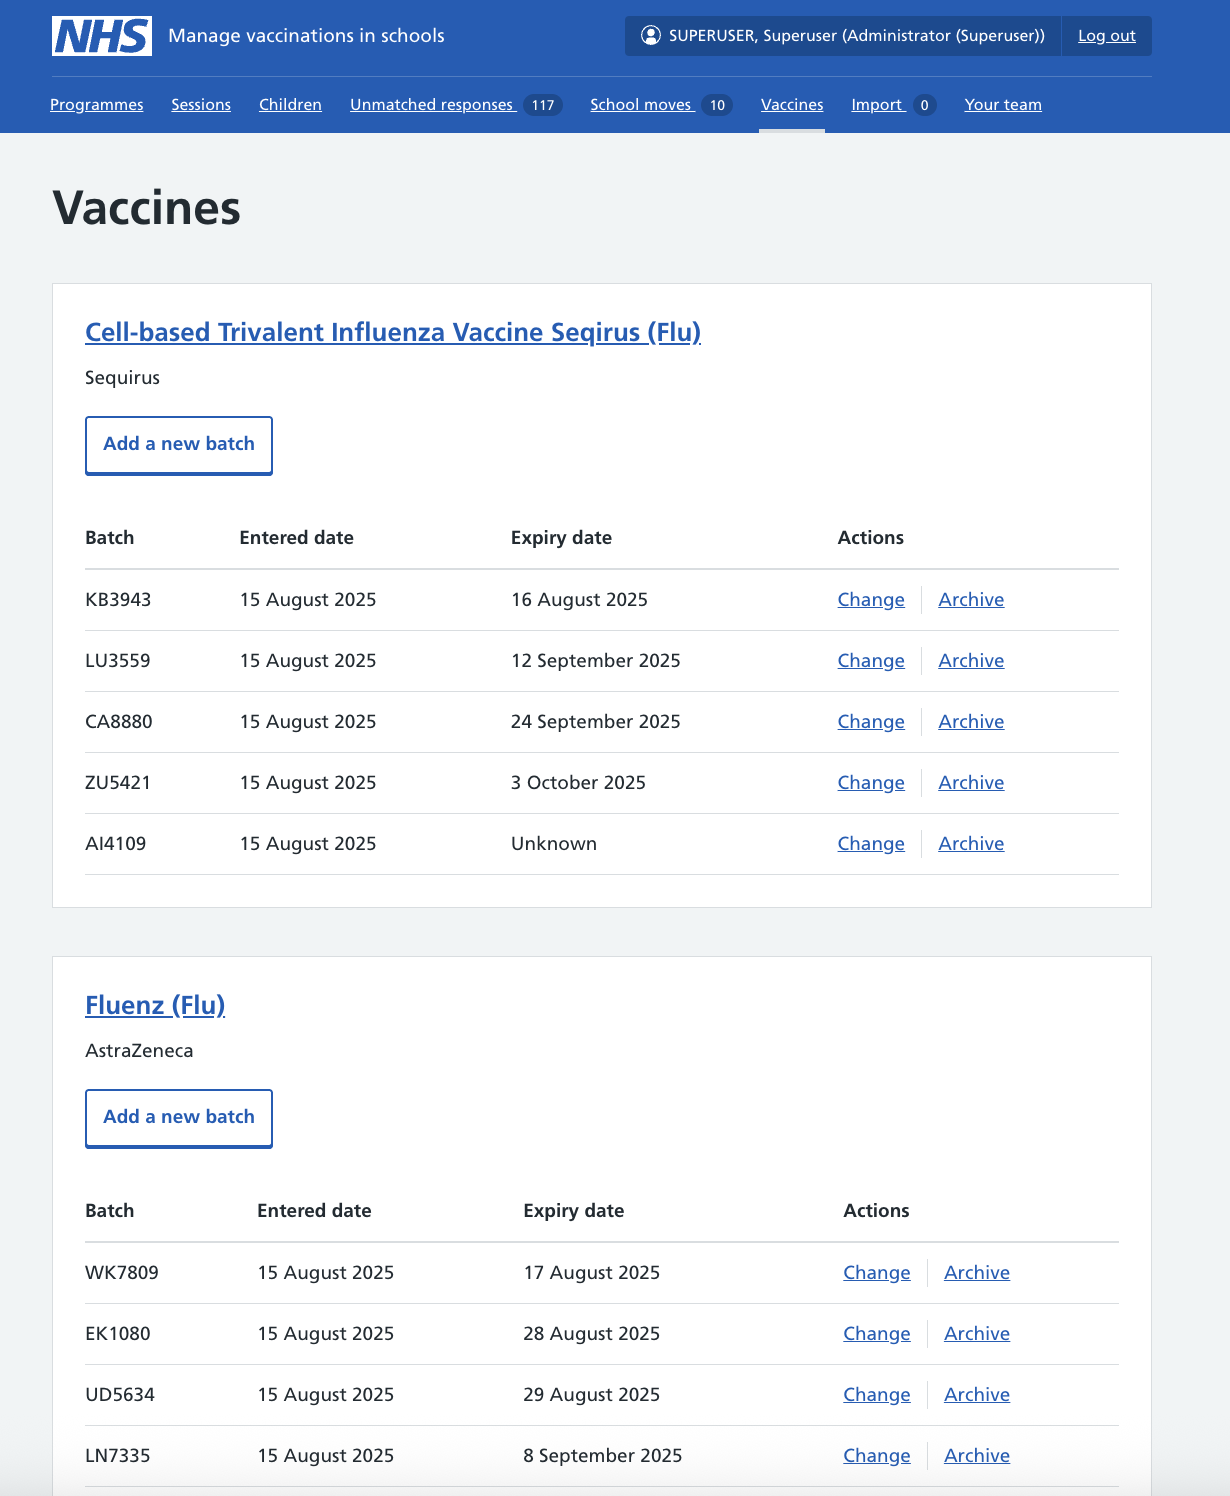
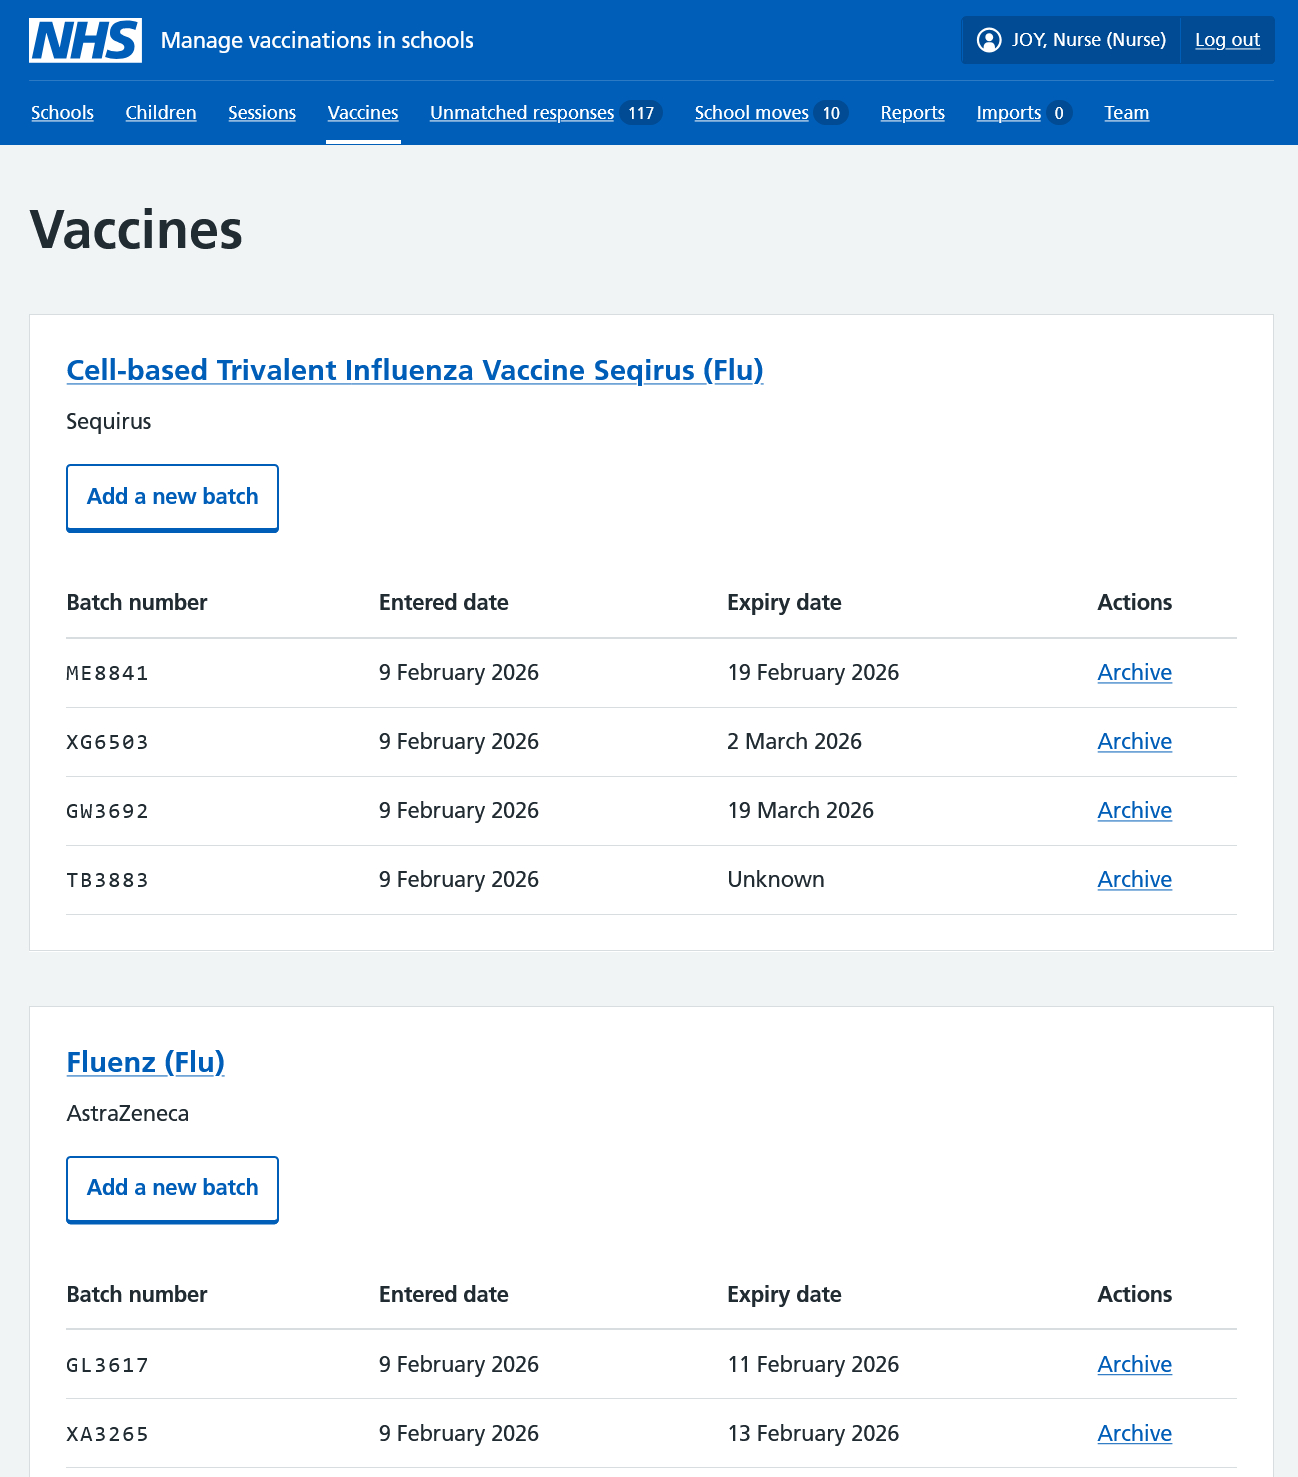
Update vaccine page to remove content about batch editing
Add text and rework screenshot to clarify that batches can not be edited, only archived.

diff --git a/app/guide/vaccines.md b/app/guide/vaccines.md
@@ -12,16 +12,19 @@ To add a vaccine batch:
 2. Find the relevant vaccine type and select **Add a new batch**.
 3. Enter the batch ID and expiry date, then click on **Add batch**.
 
-To edit a batch:
+## Archiving batches
 
-1. From the dashboard, go to **Vaccines**.
-2. Find the relevant vaccine type and batch ID and select **Change**.
-3. Make your edits and save the changes.
+When all vaccines in a batch have been used, or the batch has expired, you should archive it. Archiving a batch removes it from the list of vaccines nurses can select when recording vaccinations.
 
-Archiving a batch will remove it from the list of vaccines available to nurses when recording vaccinations. To archive a batch:
+To archive a batch:
 
 1. From the dashboard, go to **Vaccines**.
 2. Find the relevant vaccine type and batch ID and select **Archive**.
-3. Once you’ve confirmed this action, you cannot undo it.
+3. Select **Confirm**.
 
-All batches need to be manually archived. This doesn’t happen automatically.
+Once a batch has been archived, you cannot undo this.
+
+Batches are not archived automatically. You must archive each batch manually.
+
+> [!NOTE]
+> You cannot edit vaccine batches in Mavis. If there’s a mistake in the batch number or expiry date, archive the batch and add a new one with the correct information
